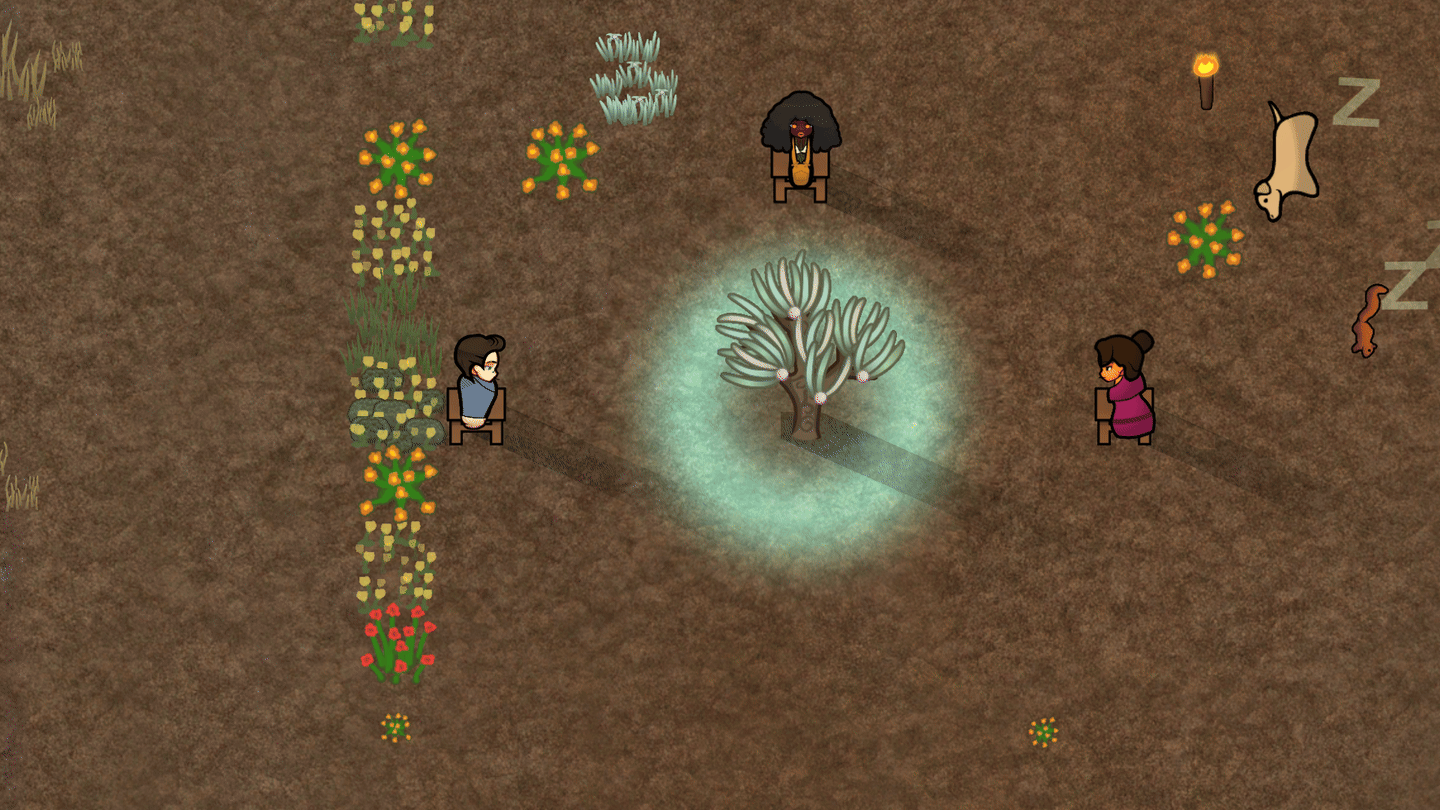
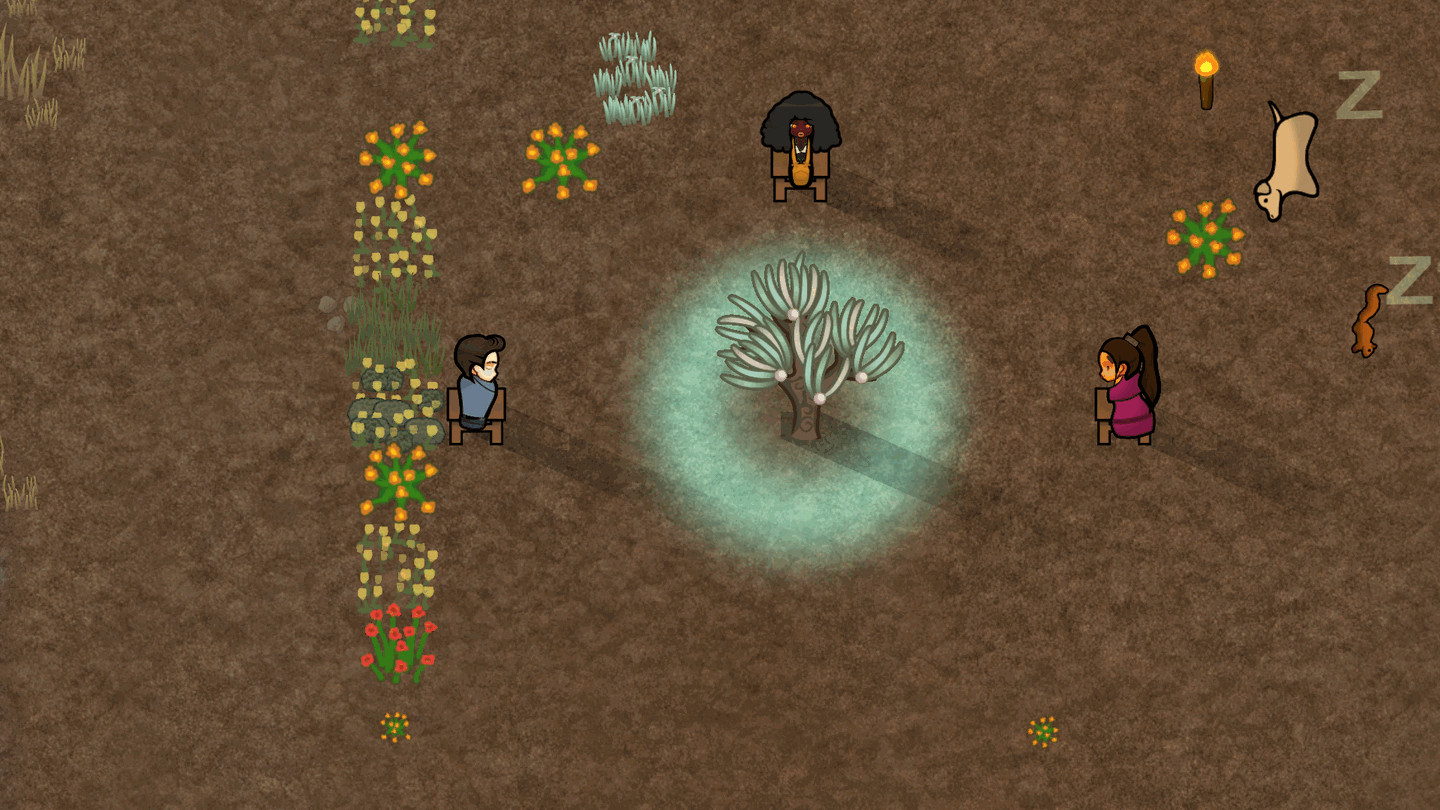
Gallery B accepted: 4-noon from ticket 8fd8 with subtitle, STATUS

diff --git a/STATUS.md b/STATUS.md
@@ -24,7 +24,8 @@ echo_review_sha: 70f6c760c3663834a2b800302ae81a480e8c9416
 social_preview_sha256: ace9cafd1a9e02e5d3934460e3776f096099d0f37820a70233c96ead0eb6bbd1
 remaining:
   - open 2026-11-20 (protocols read f970908e..HEAD, GALLERY-PROPS rule 3, checked at the passage to mountPreview): `ATTRIBUTION.md` has no section "Gallery set" yet; before the passage list there (name, author, Workshop id) every external mod the final scenes really use (hair, clothes, face and body mods of the gallery DepMaps `wsl-deps.gallery.map` and `wsl-deps.gallery-e.map`, minus the dropped Facial Animation eyes mod), credit in the Steam description when directly tied or when there is room, and in `WORKSHOP_COMMENTS.md` if the mod keeps one
-  - open 2026-11-22 (ticket 8fd8 GREEN 1 of 1, 39 s, hetzner, scenario 68871a2 + TEMP log DLL, capture opened, session verdict): B is a CANDIDATE in `Art/Gallery/4-candidate-noon.png` (1440 x 810, 256 colours, 448 KB; the accepted `4-noon.png` stays until rate-gallery replaces it): Soren slate shirt and dark trousers now drawn (no bare bottom), Nelim plum robe with ponytail hair in profile east, Miel north in front view, glow, ring of three, torch, Shogun and squirrel lying with Z; faces and eyes still the dropped-eyes-mod look (owner's point on eyes open, PiT plan for sd.fa.movingvanillaeyes pending); the ring failure is a FLAKE NOT EXPLAINED: same scenario version red twice (3104 azure, de21 hetzner: Miel GoSwimming +1243, Nelim far at +0) then green on the same lane; the TEMP log never fired (no listen ended before the check), so the end reason was not captured; TEMP log reverted (DLL rebuilt, identical to the shipped one), Parked/gallery-b24 and Inbox/gallery-b25 deleted; next: rate-gallery B (subtitle, replace 4-noon.png and Gallery-clean/4-noon.png with the candidate), hair step for A and F, eyes plan from PiT
+  - open 2026-11-22 (rate-gallery B, session verdict: accepted): the 8fd8 capture is now final `4-noon.png`: clean original `Art/Gallery-clean/4-noon.png` (1440 x 810, 256 colours, 448 KB, the full-size 1920 x 1080 is gone), subtitle burned into `Art/Gallery/4-noon.png` (line unchanged, opened, one line, hides no subject), `4-candidate-noon.png` removed; score-gallery not rerun, verdict on the image alone (trousers drawn, ponytail, ring of three, glow); gallery hash `Get-GalleryHash.ps1` errored (not recomputed); still open for the gallery: hair of Nelim in A and F, eyes and faces of B and E (PiT plan for sd.fa.movingvanillaeyes), then owner review of the whole gallery
+  - superseded 2026-11-22 (ticket 8fd8 GREEN 1 of 1, 39 s, hetzner, scenario 68871a2 + TEMP log DLL, capture opened, session verdict): B is a CANDIDATE in `Art/Gallery/4-candidate-noon.png` (1440 x 810, 256 colours, 448 KB; the accepted `4-noon.png` stays until rate-gallery replaces it): Soren slate shirt and dark trousers now drawn (no bare bottom), Nelim plum robe with ponytail hair in profile east, Miel north in front view, glow, ring of three, torch, Shogun and squirrel lying with Z; faces and eyes still the dropped-eyes-mod look (owner's point on eyes open, PiT plan for sd.fa.movingvanillaeyes pending); the ring failure is a FLAKE NOT EXPLAINED: same scenario version red twice (3104 azure, de21 hetzner: Miel GoSwimming +1243, Nelim far at +0) then green on the same lane; the TEMP log never fired (no listen ended before the check), so the end reason was not captured; TEMP log reverted (DLL rebuilt, identical to the shipped one), Parked/gallery-b24 and Inbox/gallery-b25 deleted; next: rate-gallery B (subtitle, replace 4-noon.png and Gallery-clean/4-noon.png with the candidate), hair step for A and F, eyes plan from PiT
   - superseded 2026-11-22 (resume, ticket de21 RED too, hetzner, same failure as 3104 azure, same scenario 68871a2: reproducible, not a flake; run kept in Tests/Pickle/Parked/gallery-b24 with RELEASE.md, gallery-b23 deleted): all three AnimaSong_Listen at +0, Miel GoSwimming +1243, Soren Harvest +4111, Nelim CutPlant +6902, Nelim at (131, 229) at +0 (far from the ring); TEMP end-condition log re-added (0bfd8d4, `[AnimaSongEnd]` with condition, toil, listened, position, joy; DLL rebuilt) and B refiled as ticket 8fd8 (label "gallery B alone, TEMP end-condition log AnimaSong_Listen 0bfd8d4", evidence Tests/Pickle/Inbox/gallery-b25, DepMap wsl-deps.gallery.map, filter 05-workshop-captures::the tree singing); on RUN_DONE grep `[AnimaSongEnd]` in Player.log (condition, tick, listened, position per colonist), find why Nelim is at (131, 229) and why Miel ends at +1243 (joy set to 10 percent), then REMOVE the log, rebuild the DLL, commit, delete Parked/gallery-b24; keep the mod tree untouched until RUN_DONE
   - superseded 2026-11-22 (ticket 3104 RED, read after TM message; run kept in Tests/Pickle/Parked/gallery-b23 with RELEASE.md): first ring step failed, 0 of 3 seated after the 9000-tick poll although the three orders took (AnimaSong_Listen at +0); Soren listen ends about +1050 at his seat cell (191, 152), Miel and Nelim drift at +4500..+6200; scenario differs from green b650 only by 3 steps (Nelim hairstyle, two render-node logs), ring and wait steps unchanged since c21d2f8; end reason unknown (AnimaSongEnd log was removed); B refiled unchanged as ticket de21 (label "gallery B alone, unchanged refile of 3104 (flake vs regression)", evidence Tests/Pickle/Inbox/gallery-b24, keep the mod tree untouched until RUN_DONE); on RUN_DONE: green = delete Parked/gallery-b23 (RELEASE.md, REASON.txt) and run Prune-Evidence.ps1 -Mod AnimaSong dry run; red = compare Player.log with gallery-b23, then delete it; if red again re-add a TEMP end-condition log in JobDriver_ListenAnimaSong
   - open 2026-11-22 (PiT answered the three questions): B refiled as ticket 3104 (label "gallery B alone, Visible Pants seeds in config/gallery, Nelim hairstyle, node logs", 68871a2, evidence Tests/Pickle/Inbox/gallery-b23, keep the mod tree untouched until RUN_DONE): Visible Pants seeds were only in config/sanctuary while setName is gallery (copied to config/gallery, likely cause of the bare bottom); on RUN_DONE read `apparel detail` lines of Soren (`graphic record NOT BUILT` for VAE_Apparel_Trousers = change garment to vanilla `Apparel_Pants` or body mod) and the hair node of Nelim (`hair <defName>`, texture path highpony; def right but reads as bun = top-down sprite, tell PiT); eyes: PiT has no step tolerating a Log.Error, wants the exact Player.log line of sd.fa.movingvanillaeyes: after 3104 refile once with the mod back (copy of wsl-deps.gallery.map plus `sd.fa.movingvanillaeyes 3753978140`) to capture the line and send it to PiT; then apply the hair step to A, E, F, fix E, rescore, resubtitle; PiT (2026-11-22): in that same refile try the cheap fix first, in scenario B of Tests/Pickle/Mod/Pickle/Features/05-workshop-captures.feature add `Nelim's Pickle Tools: the memory thoughts of "Soren" are cleared` (and "Nelim"; Miel is not in B) right after Soren exists (line ~117), before dressing, rebuild and shot (cause: a thought with an out-of-range stage in Thought.get_CurStage); if the Log.Error still comes, send PiT the exact Player.log line plus 3 stack lines so PiT writes a step ignoring that named error; do not edit the feature before 3104 RUN_DONE
